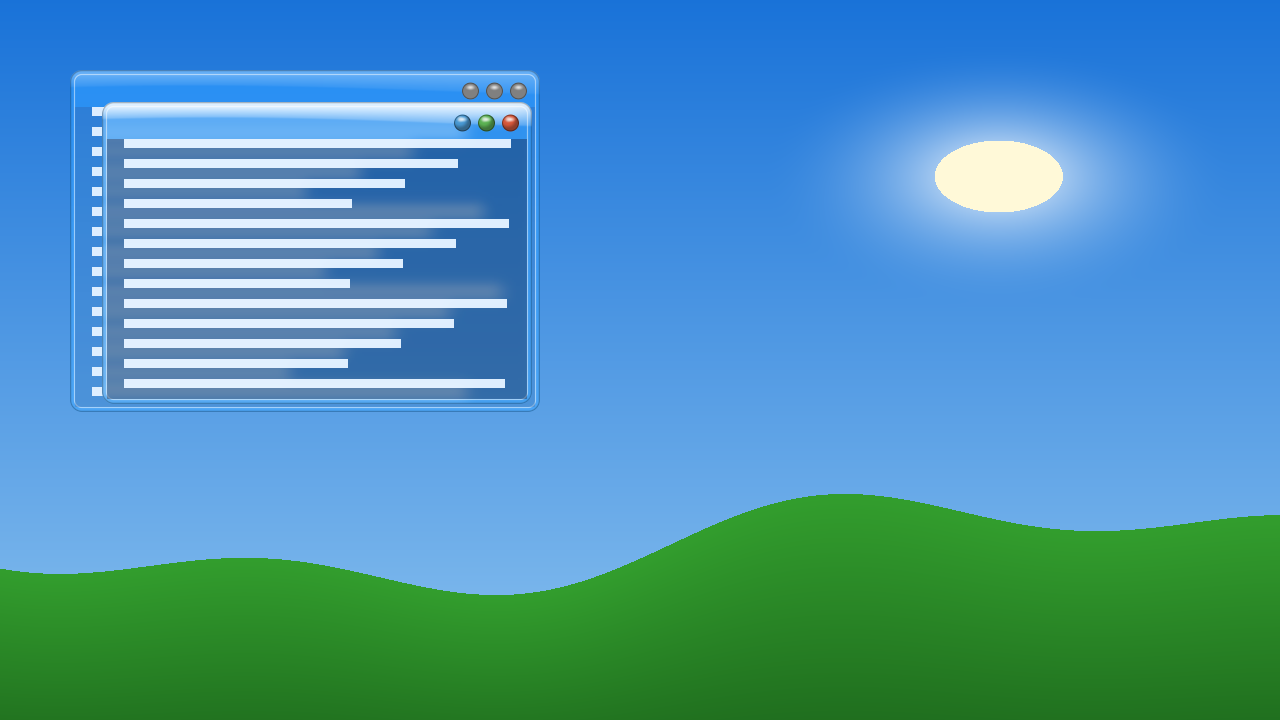
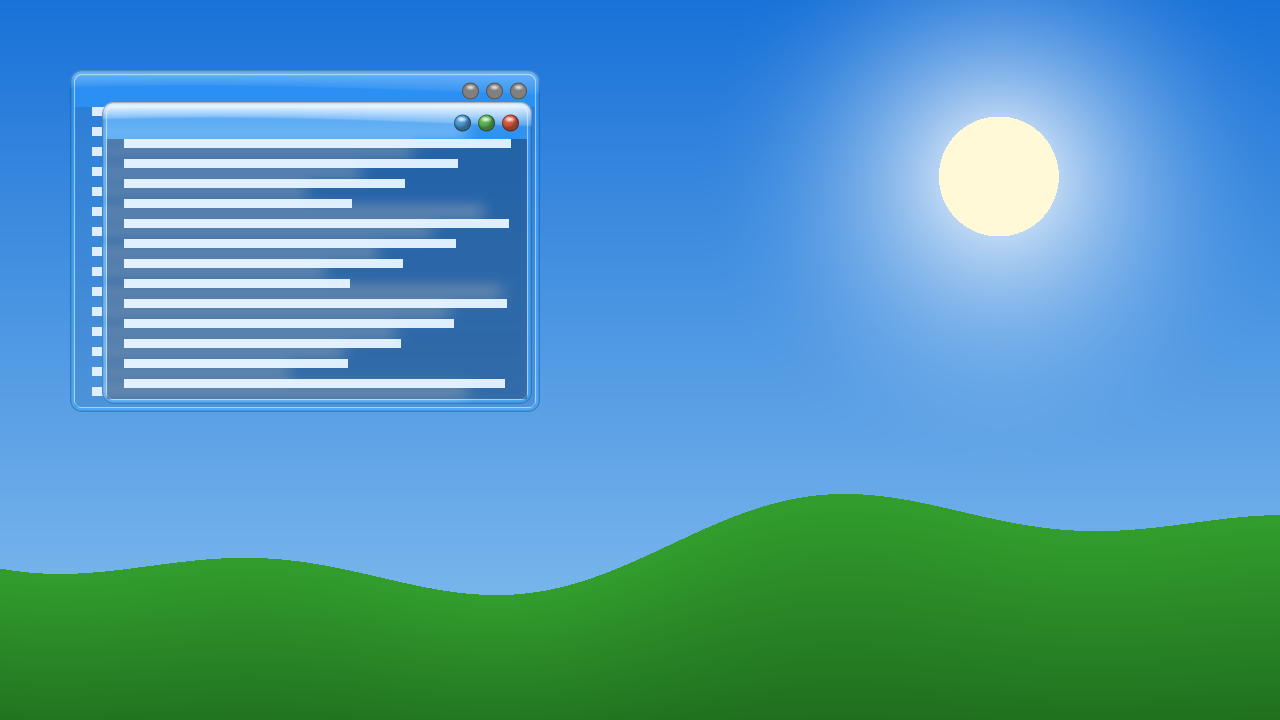
Round sun in the wallpaper at any aspect; fresh screenshot
Claude-Session: https://claude.ai/code/session_01AksNTTEEpWACMAbBincPJS

Changed region(s): [[0.625, 0.0, 0.9375, 0.5194]]

diff --git a/src/wallpaper.rs b/src/wallpaper.rs
@@ -14,13 +14,13 @@ pub fn procedural(w: i32, h: i32, stripes: bool) -> Vec<u8> {
             let mut c = [0.10 + 0.50 * fy, 0.45 + 0.35 * fy, 0.85 + 0.10 * fy];
             // sun with glow
             let aspect = W as f32 / H as f32;
-            let (dx, dy) = ((fx - 0.78) * aspect / 1.78, fy - 0.22);
+            let (dx, dy) = ((fx - 0.78) * aspect, fy - 0.22); // round in pixels, sized by the height
             let d = (dx * dx + dy * dy).sqrt();
-            let glow = (1.0 - d * 6.0).clamp(0.0, 1.0);
+            let glow = (1.0 - d * 2.6).clamp(0.0, 1.0);
             for k in 0..3 {
                 c[k] = c[k] + (1.0 - c[k]) * glow * glow;
             }
-            if d < 0.045 {
+            if d < 0.075 {
                 c = [1.0, 0.98, 0.85];
             }
             // grass hills
